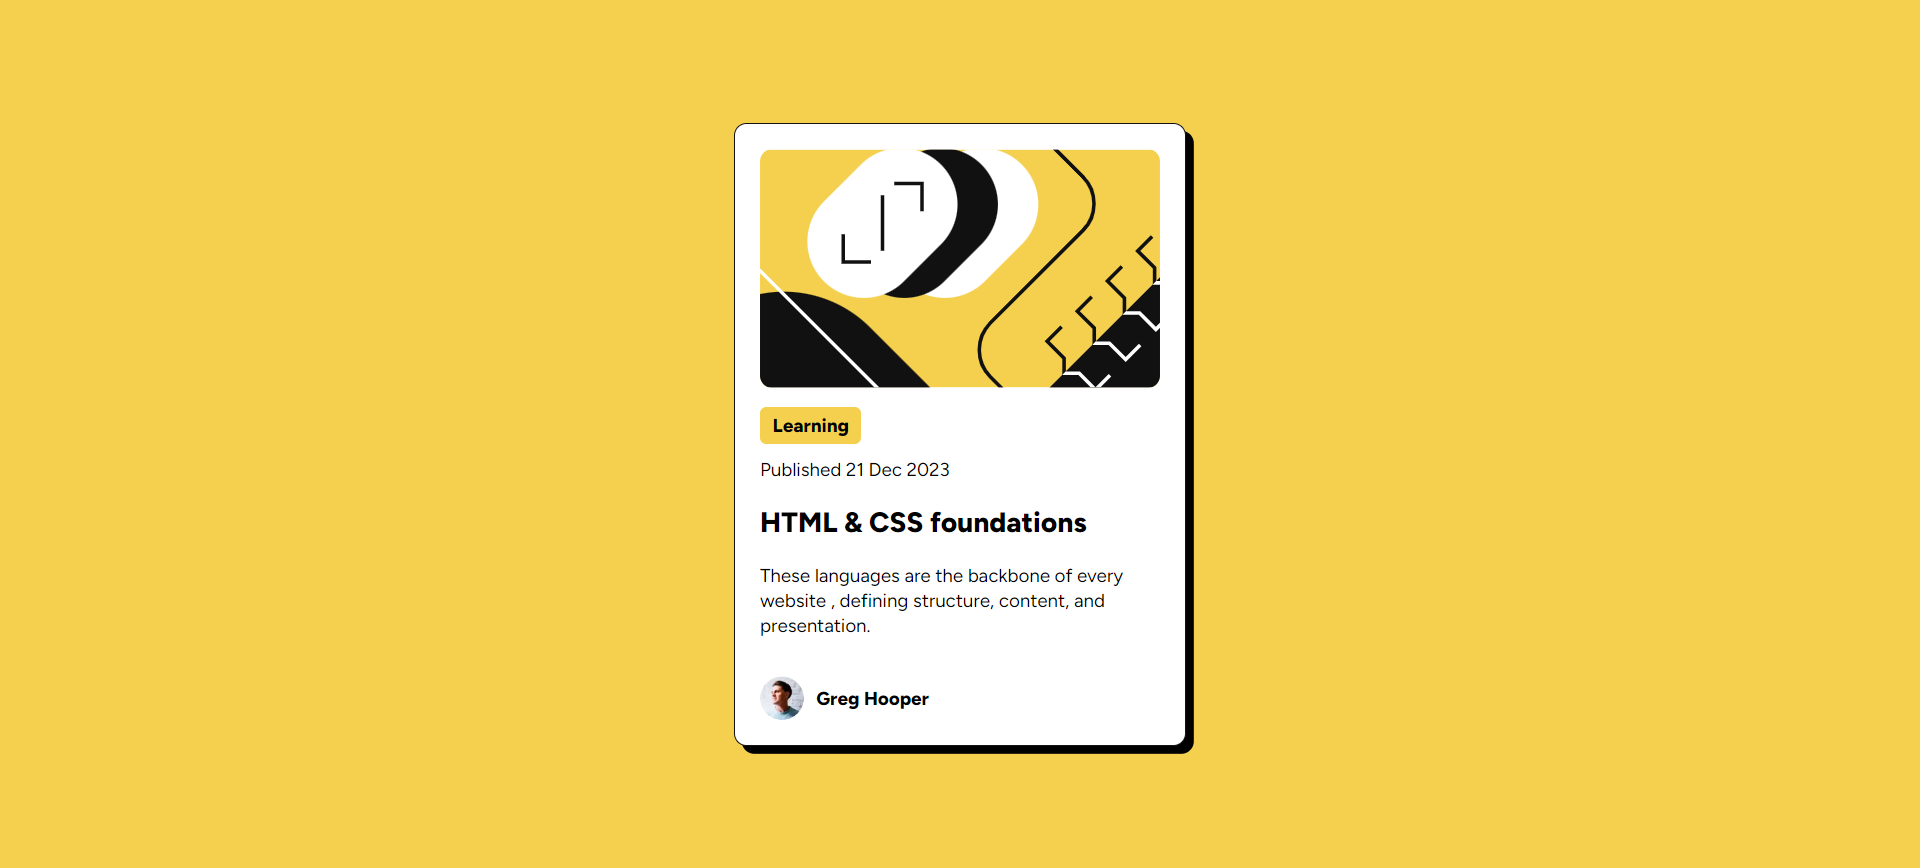
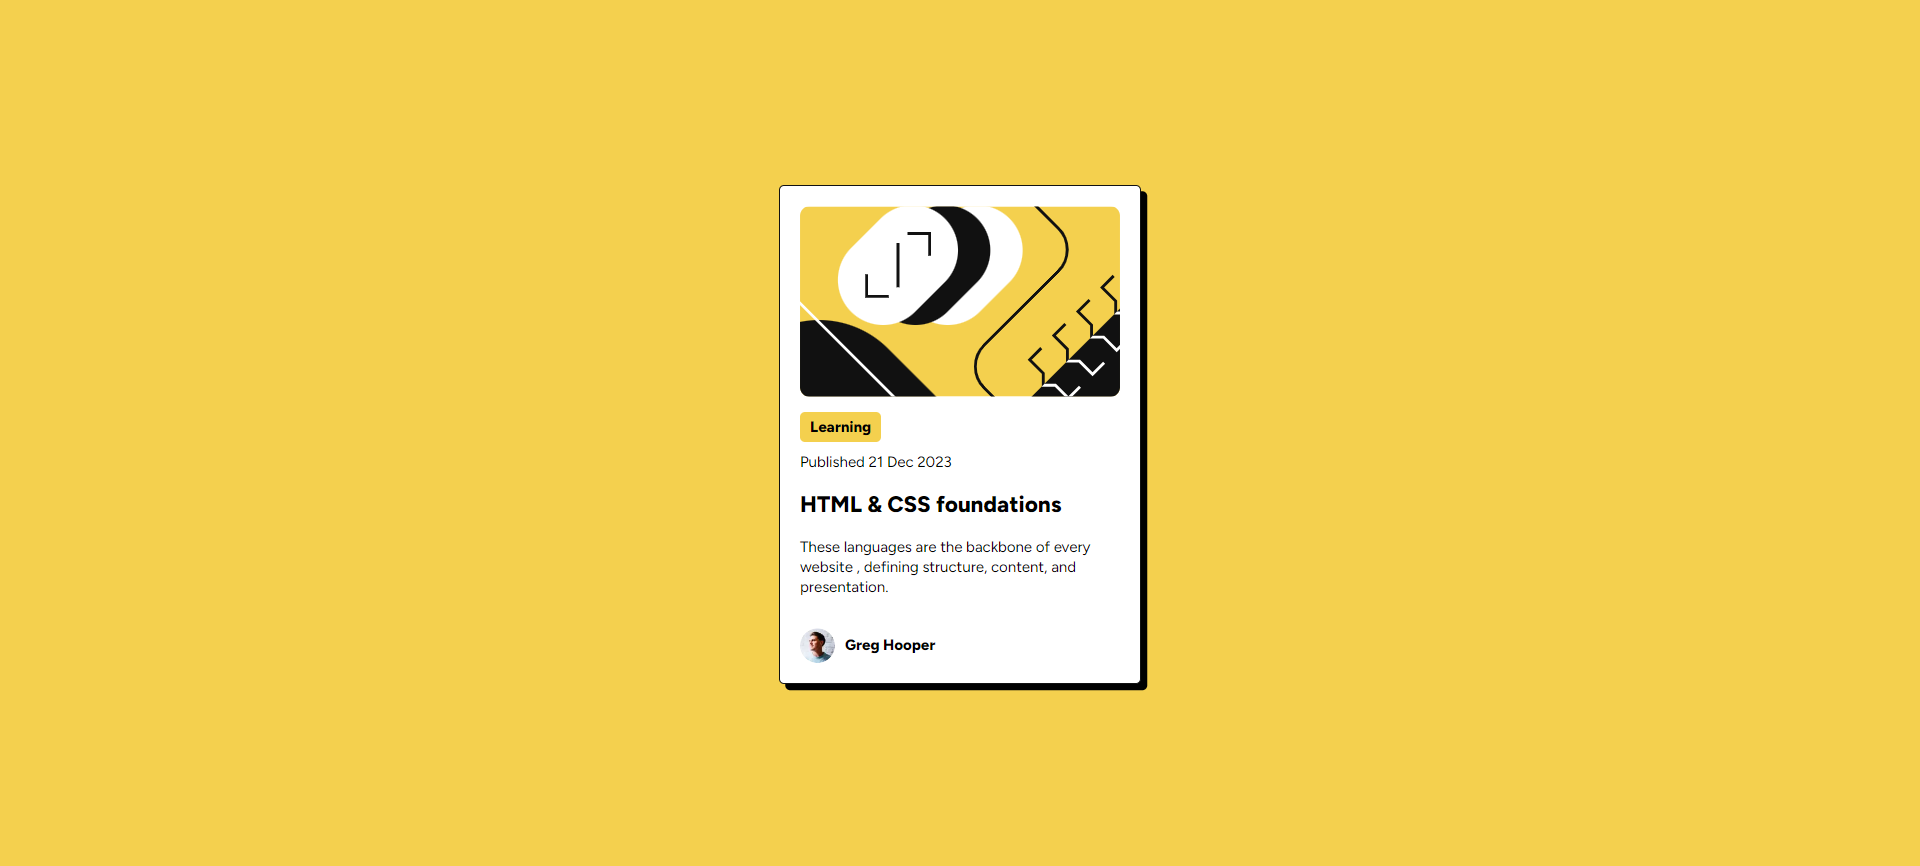
modified

Changed region(s): [[0.375, 0.1247, 0.625, 0.873]]

diff --git a/app/page.tsx b/app/page.tsx
@@ -4,10 +4,7 @@ import Link from "next/link";
 const BlogViewCard = () => {
   return (
     <div className="bg-primary h-screen w-screen flex items-center justify-center">
-      <div
-        className="bg-white border border-black rounded-lg group"
-        id="parent"
-      >
+      <div className="bg-white border border-black rounded" id="parent">
         <div className="p-4 flex flex-col items-start justify-center">
           <Image
             className="rounded-lg w-64 self-center"
